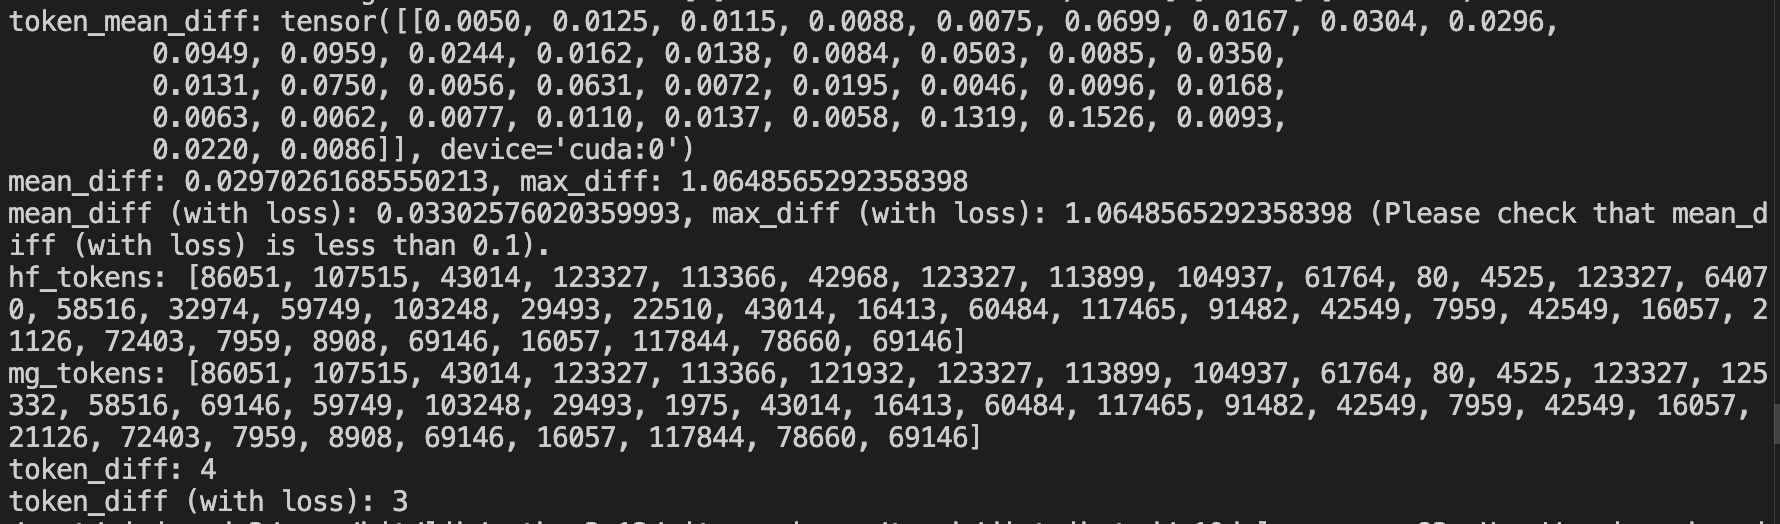
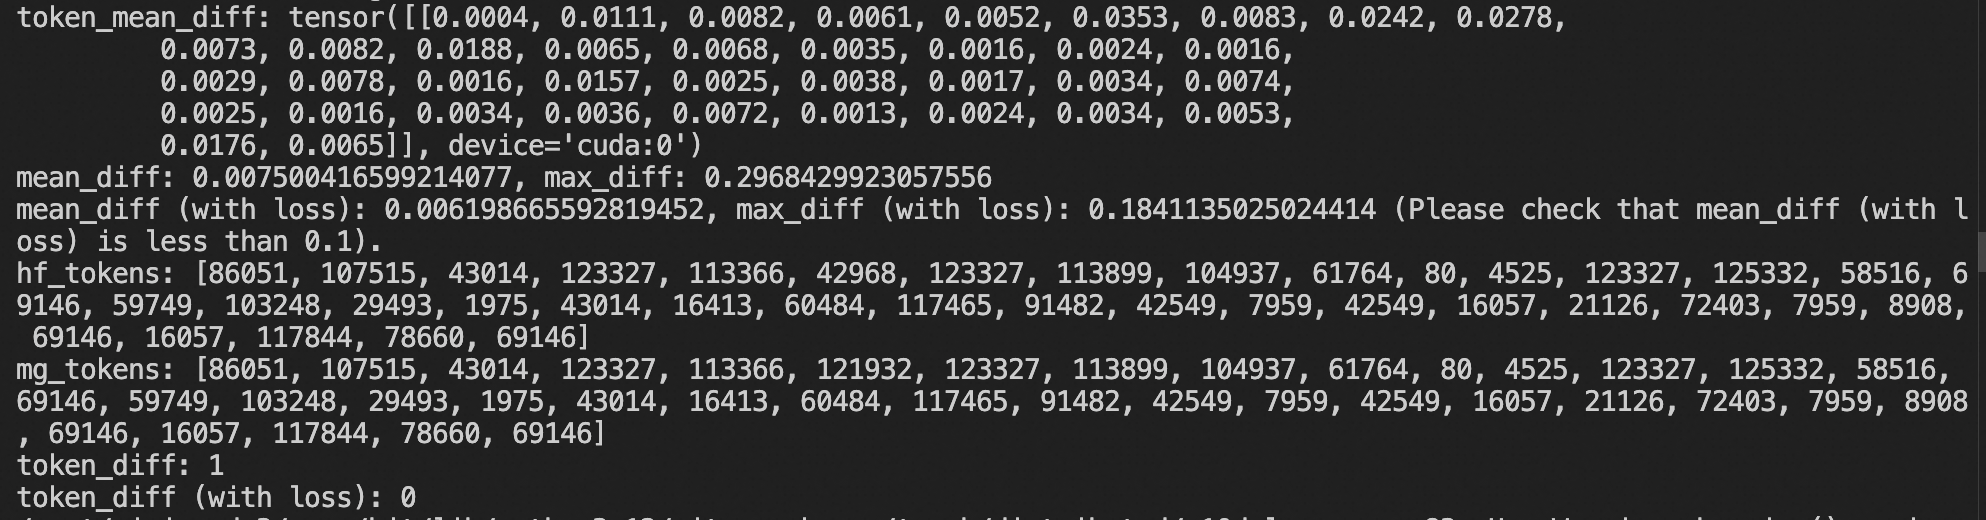
[bugfix] fix device_map ddp (compat transformers>=5.0) (#9484)

Pull request: [bugfix] fix device_map ddp (compat transformers>=5.0)

diff --git a/swift/model/patcher.py b/swift/model/patcher.py
@@ -25,6 +25,9 @@ from swift.utils import (HfConfigFactory, deep_getattr, get_device_count, get_di
 
 logger = get_logger()
 
+transformers_version = version.parse(transformers.__version__)
+transformers_5 = transformers_version >= version.parse('5.0.0')
+
 
 def patch_fixed_float_dtype(module: torch.nn.Module, dtype):
     """Patch the module, to make sure the consisitent dtype."""
@@ -449,7 +452,12 @@ def patch_mp_ddp():
         return
     _mp_ddp_patched = True
     if is_mp_ddp():
-        from accelerate.utils.modeling import get_balanced_memory, infer_auto_device_map
+        if transformers_5:
+            from transformers.integrations import accelerate as tf_accelerate
+            get_balanced_memory = tf_accelerate.get_balanced_memory
+            infer_auto_device_map = tf_accelerate.infer_auto_device_map
+        else:
+            from accelerate.utils.modeling import get_balanced_memory, infer_auto_device_map
 
         @wraps(infer_auto_device_map)
         def _infer_auto_device_map_patch(model: nn.Module,
@@ -470,9 +478,11 @@ def patch_mp_ddp():
         _old_ddp_init = DDP.__init__
         accelerate.accelerator.torch.nn.parallel.DistributedDataParallel.__init__ = (
             lambda self, model, device_ids, output_device, *args, **kwargs: _old_ddp_init(self, model, *args, **kwargs))
-        transformers.modeling_utils.get_balanced_memory = lambda *args, **kwargs: {}
-        transformers.modeling_utils.infer_auto_device_map = _infer_auto_device_map_patch
-
+        if transformers_5:
+            tf_accelerate.infer_auto_device_map = _infer_auto_device_map_patch
+        else:
+            transformers.modeling_utils.infer_auto_device_map = _infer_auto_device_map_patch
+            transformers.modeling_utils.get_balanced_memory = lambda *args, **kwargs: {}
         _old_accelerator_init = trainer.Accelerator.__init__
         trainer.Accelerator.__init__ = (lambda self, device_placement=False, *args, **kwargs: _old_accelerator_init(
             self, device_placement=device_placement, *args, **kwargs))
@@ -496,8 +506,7 @@ def patch_get_dynamic_module():
 
 @contextmanager
 def patch_tp_plan(load_model: bool):
-    if not load_model or not is_mp() or version.parse(
-            transformers.__version__) < version.parse('4.50') or 'WORLD_SIZE' not in os.environ:
+    if not load_model or not is_mp() or transformers_version < version.parse('4.50') or 'WORLD_SIZE' not in os.environ:
         yield
         return
     logger.info_once('Patch tp_plan.')